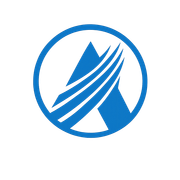
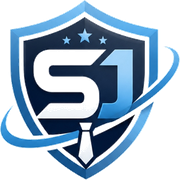
Update branding assets and default WhatsApp contact number
Replace the placeholder favicons with the new logo and shield-emblem
artwork, and point the example env's WhatsApp number and API port at
the current defaults.

diff --git a/client/src/components/common/Logo.jsx b/client/src/components/common/Logo.jsx
@@ -1,23 +1,29 @@
+import shieldEmblem from '../../assets/shield-emblem.png';
+
 const SIZE_CONFIGS = {
   sm: {
-    svg: 'h-8 w-8',
-    text: 'text-base',
-    tagline: 'text-[9px]',
+    icon: 'h-7 w-7 sm:h-8 sm:w-8',
+    text: 'text-sm sm:text-base',
+    dot: 'text-[10px] sm:text-xs',
+    tagline: 'text-[8px] sm:text-[9px]',
   },
   md: {
-    svg: 'h-9 w-9 sm:h-10 sm:w-10',
-    text: 'text-base sm:text-lg',
-    tagline: 'text-[10px]',
+    icon: 'h-8 w-8 sm:h-10 sm:w-10',
+    text: 'text-sm sm:text-base md:text-lg',
+    dot: 'text-xs sm:text-sm',
+    tagline: 'text-[8.5px] sm:text-[9.5px]',
   },
   lg: {
-    svg: 'h-11 w-11 sm:h-12 sm:w-12',
-    text: 'text-lg sm:text-xl',
-    tagline: 'text-[11px]',
+    icon: 'h-10 w-10 sm:h-12 sm:w-14',
+    text: 'text-lg sm:text-2xl',
+    dot: 'text-sm sm:text-base',
+    tagline: 'text-[10px] sm:text-[11px]',
   },
   xl: {
-    svg: 'h-14 w-14 sm:h-16 sm:w-16',
-    text: 'text-2xl sm:text-3xl',
-    tagline: 'text-xs',
+    icon: 'h-14 w-14 sm:h-16 sm:w-20',
+    text: 'text-2xl sm:text-3xl md:text-4xl',
+    dot: 'text-base sm:text-lg',
+    tagline: 'text-xs sm:text-sm',
   },
 };
 
@@ -31,89 +37,43 @@ export default function Logo({
   const cfg = SIZE_CONFIGS[size] || SIZE_CONFIGS.md;
 
   return (
-    <div className={`flex items-center gap-2.5 sm:gap-3 select-none ${className}`}>
-      {/* Modern High-End Security & Job Emblem */}
-      <div className={`relative ${cfg.svg} shrink-0`}>
-        <svg viewBox="0 0 48 48" className="w-full h-full drop-shadow-sm">
-          <defs>
-            {/* Primary Shield Gradient */}
-            <linearGradient id="sj-shield-grad" x1="0%" y1="0%" x2="100%" y2="100%">
-              <stop offset="0%" stopColor="#2563eb" />
-              <stop offset="60%" stopColor="#1d4ed8" />
-              <stop offset="100%" stopColor="#0f172a" />
-            </linearGradient>
-
-            {/* Gold Job Star Accent Gradient */}
-            <linearGradient id="sj-gold-grad" x1="0%" y1="0%" x2="100%" y2="100%">
-              <stop offset="0%" stopColor="#fbbf24" />
-              <stop offset="50%" stopColor="#f59e0b" />
-              <stop offset="100%" stopColor="#d97706" />
-            </linearGradient>
-
-            {/* Inner Sheen */}
-            <linearGradient id="sj-sheen" x1="0%" y1="0%" x2="0%" y2="100%">
-              <stop offset="0%" stopColor="#ffffff" stopOpacity="0.25" />
-              <stop offset="100%" stopColor="#ffffff" stopOpacity="0.0" />
-            </linearGradient>
-          </defs>
-
-          {/* Shield Base */}
-          <path
-            d="M24 4 L8 10.5 C8 24 14.5 35.5 24 43 C33.5 35.5 40 24 40 10.5 L24 4 Z"
-            fill="url(#sj-shield-grad)"
-            stroke={isDark ? '#3b82f6' : '#1e40af'}
-            strokeWidth="1.2"
-          />
-
-          {/* Inner Highlight Layer */}
-          <path
-            d="M24 6.5 L10.5 12 C10.5 23.5 16 33.5 24 40 C32 33.5 37.5 23.5 37.5 12 L24 6.5 Z"
-            fill="url(#sj-sheen)"
-          />
-
-          {/* Security Star Core (Job Excellence Emblem) */}
-          <path
-            d="M24 14 L26.2 19.5 L32 20.2 L27.5 24 L28.8 29.8 L24 26.5 L19.2 29.8 L20.5 24 L16 20.2 L21.8 19.5 Z"
-            fill="url(#sj-gold-grad)"
-            stroke="#b45309"
-            strokeWidth="0.5"
-          />
-
-          {/* Stylized Verified Checkmark / Eagle Wing Arc */}
-          <path
-            d="M17 24.5 L22.5 30 L33 19"
-            fill="none"
-            stroke="#ffffff"
-            strokeWidth="3.2"
-            strokeLinecap="round"
-            strokeLinejoin="round"
-          />
-        </svg>
+    <div className={`flex items-center gap-2 sm:gap-2.5 select-none group min-w-0 ${className}`}>
+      {/* 1. Official High-Resolution Transparent Shield Emblem */}
+      <div className="relative shrink-0 flex items-center justify-center transition-transform duration-200 group-hover:scale-105">
+        <img
+          src={shieldEmblem}
+          alt="SecurityJob.in Emblem"
+          className={`${cfg.icon} w-auto object-contain drop-shadow-xs`}
+          loading="eager"
+        />
       </div>
 
-      {/* Modern Wordmark */}
-      <div className="min-w-0 flex flex-col justify-center">
-        <div className="flex items-center gap-1 leading-none">
-          <span
-            className={`${cfg.text} font-black tracking-tight ${
-              isDark ? 'text-white' : 'text-slate-900'
-            }`}
-          >
-            Security<span className="text-blue-600">Job</span>
+      {/* 2. Official Horizontal Brand Lockup & Tagline */}
+      <div className="flex flex-col justify-center min-w-0">
+        {/* Main Wordmark: SECURITYJOB.IN */}
+        <div className="flex items-baseline leading-none font-black tracking-tight whitespace-nowrap">
+          <span className={`${cfg.text} ${isDark ? 'text-white' : 'text-slate-900'} uppercase font-black tracking-wide`}>
+            SECURITY
           </span>
-          <span className="text-[10px] sm:text-xs font-extrabold px-1.5 py-0.2 rounded-md bg-blue-50 text-blue-700 border border-blue-200/80">
-            .in
+          <span className={`${cfg.text} text-blue-600 uppercase font-black tracking-wide ml-0.5`}>
+            JOB
+          </span>
+          <span className={`${cfg.dot} text-blue-500 font-extrabold ml-0.5 uppercase`}>
+            .IN
           </span>
         </div>
 
+        {/* Official Brand Tagline with Cyan Accent Lines (Hidden on mobile phones < 640px to prevent navbar squeeze) */}
         {showTagline && (
-          <p
-            className={`${cfg.tagline} font-bold tracking-wider uppercase mt-1 leading-none ${
-              isDark ? 'text-blue-200/80' : 'text-slate-400'
-            }`}
-          >
-            Security Careers India
-          </p>
+          <div className="hidden sm:flex items-center gap-1.5 mt-1 leading-none">
+            <span className="h-[1.5px] w-2 bg-blue-400 rounded-full shrink-0" />
+            <span
+              className={`${cfg.tagline} font-bold tracking-tight text-slate-500 whitespace-nowrap truncate`}
+            >
+              Right Job. Right People. Right Security.
+            </span>
+            <span className="h-[1.5px] w-2 bg-blue-400 rounded-full shrink-0" />
+          </div>
         )}
       </div>
     </div>
